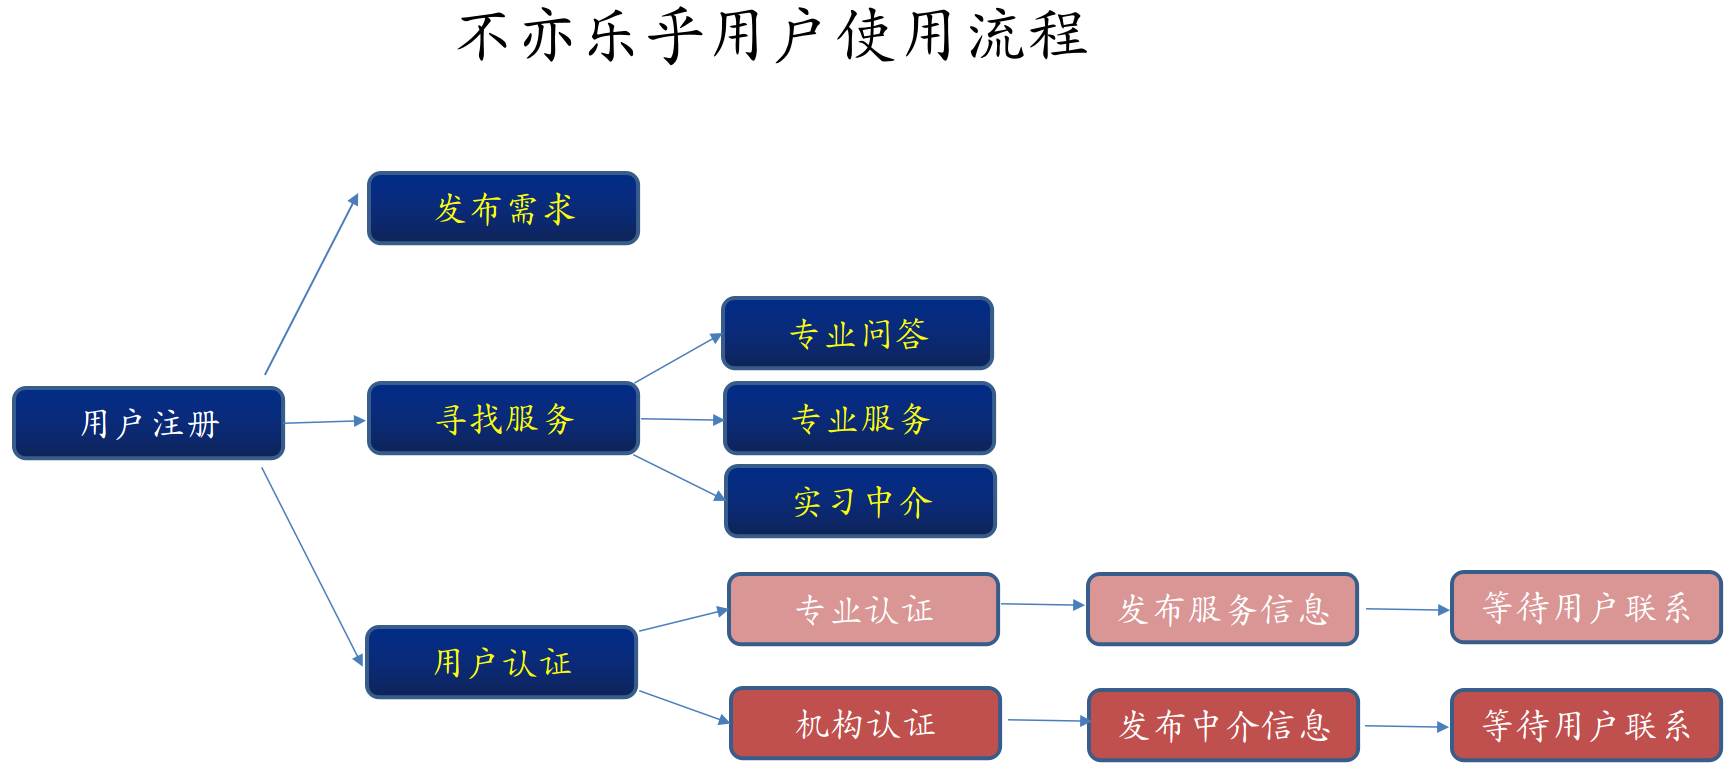
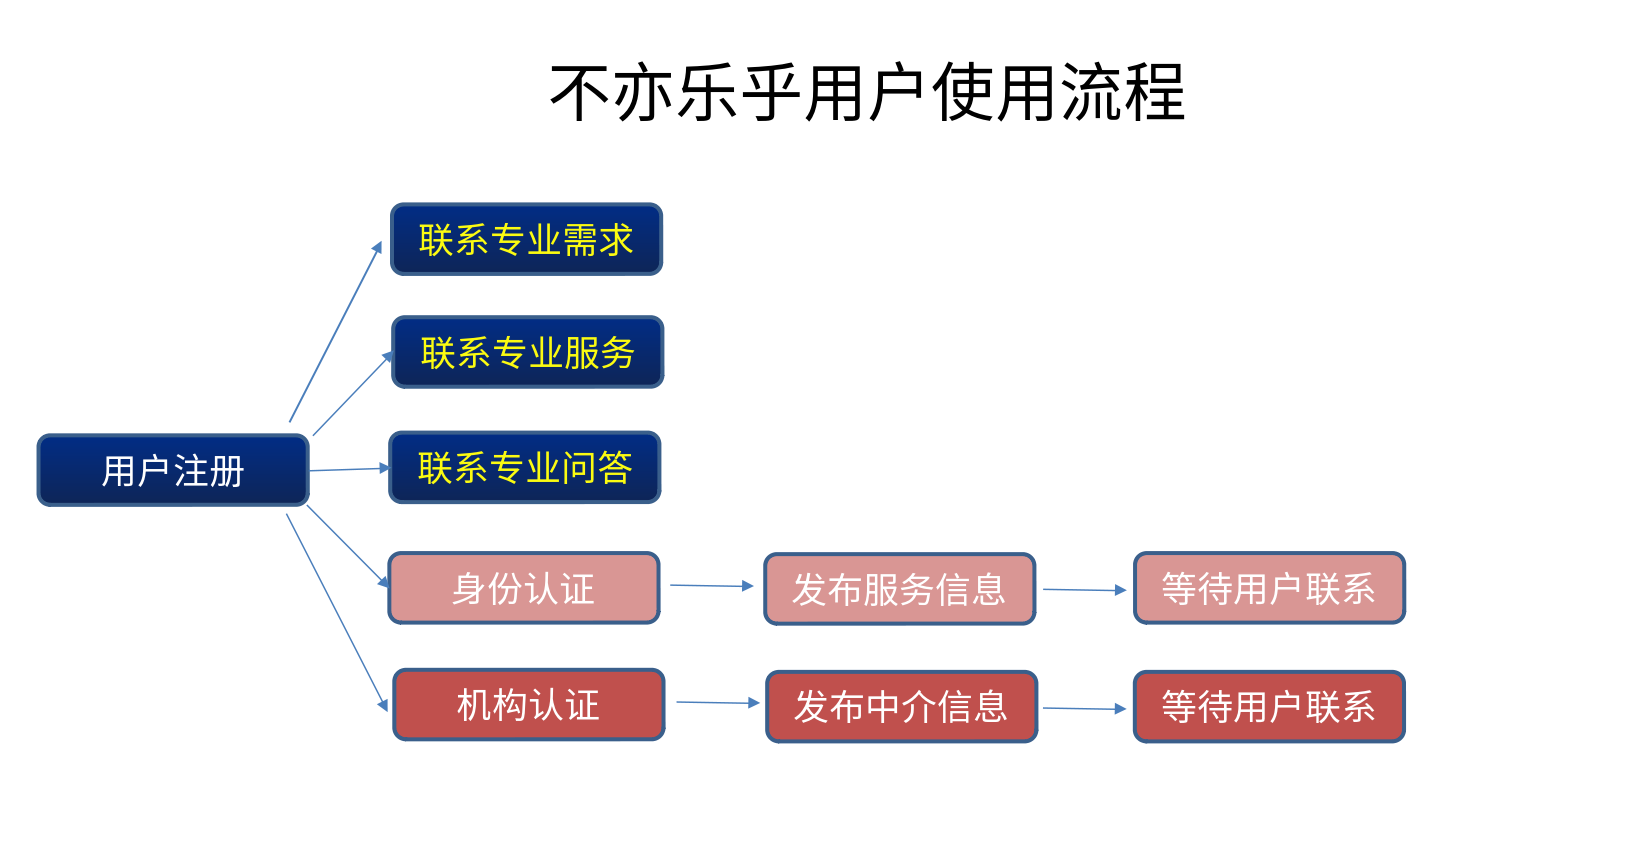
teacher cao modify css\default images

Changed region(s): [[0.0, 0.3711, 1.0, 0.9897], [0.25, 0.0, 0.7188, 0.1546], [0.1875, 0.2165, 0.4062, 0.3402]]

diff --git a/resources/views/person/finance.blade.php b/resources/views/person/finance.blade.php
@@ -1,5 +1,5 @@
 @extends('demo.admin2')
-@section("title", "实习中介认证")
+@section("title", "机构认证")
 
 @section("custom-style")
     <link rel="stylesheet" type="text/css" href="{{asset("plugins/sweetalert/sweetalert.css")}}"/>
@@ -35,18 +35,18 @@
 
     <div class="main-wrap">
         <div class="am-cf am-padding">
-            <div class="am-fl am-cf"><strong class="am-text-danger am-text-lg">实习中介认证</strong> /
-                <small>Finance&nbsp;authentication</small>
+            <div class="am-fl am-cf"><strong class="am-text-danger am-text-lg">机构认证</strong> /
+                <small>Organization&nbsp;authentication</small>
             </div>
         </div>
         <hr/>
         <div class="authentication">
             @if($data["is_vertify"] == -1)
-            <p class="tip">请填写你的中介机构的认证凭据，以用于平台审核</p>
+            <p class="tip">请填写您的机构的认证凭据，以用于平台审核</p>
                 <div class="authenticationInfo">
                     <p class="title">填写机构信息</p>
                     <div class="am-form-group">
-                        <label for="user-name" class="am-form-label">实习中介机构名称：</label>
+                        <label for="user-name" class="am-form-label">机构名称：</label>
                         <div class="am-form-content">
                             <input type="text" id="real-name" name="real_name" placeholder="请输入您的机构名称">
                         </div>
@@ -64,9 +64,9 @@
                         </div>
                     </div>
                     <div class="am-form-group">
-                        <label for="user-field" class="am-form-label">中介领域：</label>
+                        <label for="user-field" class="am-form-label">服务领域：</label>
                         <div class="am-form-content">
-                            <input type="text" id="field" name="field" placeholder="请输入中介领域（工美设计、医院护士、公司职位等）">
+                            <input type="text" id="field" name="field" placeholder="请输入服务领域（体育、艺术、技术、医疗等）">
                         </div>
                     </div>
                     <div class="am-form-group">
@@ -102,7 +102,7 @@
                             <div class="cardPic" id="id-card-back_holder">
                                 <img src="{{asset("images/cardbg.jpg")}}">
                                 <div class="cardText" id="upload-back-btn"><i class="am-icon-plus"></i>
-                                    <p>其他相关证件</p>
+                                    <p>其他许可/资质</p>
                                 </div>
                                 <p class="titleText">其他证件</p>
                             </div>
@@ -118,7 +118,7 @@
                     <div id="submit-form" class="am-btn am-btn-danger">提交</div>
                 </div>
             @else
-                <span class="am-badge am-badge-warning am-round"><a href="/account/safety">您已提交实习中介认证，请等待审核,点击查看审核结果</a></span>
+                <span class="am-badge am-badge-warning am-round"><a href="/account/safety">您已提交机构认证材料，请等待审核,点击查看审核结果</a></span>
             @endif
         </div>
     </div>
@@ -150,7 +150,7 @@
             swal({
                 title: "要求",
                 type: "info",
-                text: "其他相关证件照片，可证明实习中介身份的照片",
+                text: "其他相关证件照片，可证明机构身份的照片",
                 confirmButtonText: "知道了",
                 closeOnConfirm: true
             }, function () {
@@ -175,7 +175,7 @@
             if (realName === "") {
                 swal({
                     title: "",
-                    text: "请输入您的实习中介机构名称",
+                    text: "请输入您的机构名称",
                     type: "error",
                     confirmButtonText: "确定",
                     showCancelButton: false,
@@ -198,10 +198,10 @@
                 return;
             }
             if(field === ''){
-                swal("","中介领域不能为空", "error");
+                swal("","服务领域不能为空", "error");
                 return;
             }else if(field.length > 100){
-                swal("","中介领域长度不能超过100字", "error");
+                swal("","服务领域长度不能超过100字", "error");
                 return;
             }
 

diff --git a/resources/views/person/safety.blade.php b/resources/views/person/safety.blade.php
@@ -68,13 +68,13 @@
                         {{--<li>--}}
                             {{--<i class="i-safety-idcard"></i>--}}
                             {{--<div class="m-left">--}}
-                                {{--<div class="fore1">实名认证</div>--}}
+                                {{--<div class="fore1">身份认证</div>--}}
                                 {{--@if($data['userinfo']->realname_statue == -1)--}}
-                                    {{--<div class="fore2"><small>认证通过后、才能进一步认证专业身份或实习机构，同时可提高账户安全性。</small></div>--}}
+                                    {{--<div class="fore2"><small>认证通过后可发布服务。</small></div>--}}
                                 {{--@elseif($data['userinfo']->realname_statue == 0)--}}
                                     {{--<div class="fore2"><small>您已提交审核，请耐心等待审核结果。</small></div>--}}
                                 {{--@else--}}
-                                    {{--<div class="fore2"><small>恭喜您已通过实名认证</small></div>--}}
+                                    {{--<div class="fore2"><small>恭喜您已通过身份认证</small></div>--}}
                                 {{--@endif--}}
                             {{--</div>--}}
                             {{--<div class="fore3">--}}
@@ -97,16 +97,16 @@
                             {{--<i class="i-safety-security"></i>--}}
                             <i class="i-safety-idcard"></i>
                             <div class="m-left">
-                                <div class="fore1">专业技能认证</div>
+                                <div class="fore1">身份认证</div>
                                 {{--@if($data['userinfo']->realname_statue != 1)--}}
-                                    {{--<div class="fore2"><small>先通过实名认证后才能提交专业技能认证！</small></div>--}}
+                                    {{--<div class="fore2"><small></small></div>--}}
                                 {{--@else--}}
                                     @if($data['userinfo']->majors_statue == -1)
                                         <div class="fore2"><small>认证通过后可进行专业服务、专业问答发布，同时可进一步提高账户安全性。</small></div>
                                     @elseif($data['userinfo']->majors_statue == 0)
                                         <div class="fore2"><small>您已提交审核，请耐心等待审核结果。</small></div>
                                     @else
-                                        <div class="fore2"><small>恭喜您已通过专业技能认证</small></div>
+                                        <div class="fore2"><small>恭喜您已通过身份认证</small></div>
                                     @endif
                                 {{--@endif--}}
                             </div>
@@ -135,16 +135,16 @@
                         <li>
                             <i class="i-safety-final"></i>
                             <div class="m-left">
-                                <div class="fore1">实习中介认证</div>
+                                <div class="fore1">机构认证</div>
                                 {{--@if($data['userinfo']->realname_statue != 1)--}}
-                                    {{--<div class="fore2"><small>先通过实名认证后才能提交实习中介认证！</small></div>--}}
+                                    {{--<div class="fore2"><small></small></div>--}}
                                 {{--@else--}}
                                     @if($data['userinfo']->finance_statue== -1)
-                                        <div class="fore2"><small>认证通过后可进行实习中介服务发布，同时可进一步提高账户安全性。</small></div>
+                                        <div class="fore2"><small>认证通过后可发布中介信息，同时可进一步提高账户安全性。</small></div>
                                     @elseif($data['userinfo']->finance_statue== 0)
                                         <div class="fore2"><small>您已提交审核，请耐心等待审核结果。</small></div>
                                     @else
-                                        <div class="fore2"><small>恭喜您已通过实习中介认证</small></div>
+                                        <div class="fore2"><small>恭喜您已通过机构认证</small></div>
                                     @endif
                                 {{--@endif--}}
                             </div>

diff --git a/resources/views/demo/aside.blade.php b/resources/views/demo/aside.blade.php
@@ -2,20 +2,20 @@
     <ul>
         @if($type == 1)
             <li class="person active">
-                <a href="{{asset('account/index')}}"><i class="am-icon-user"></i>个人中心</a>
+                <a href="{{asset('account/index')}}"><i class="am-icon-user"></i>我的主页</a>
             </li>
             <li class="person">
                 <p><i class="am-icon-newspaper-o"></i>个人资料</p>
                 <ul>
                     <li><a href="{{asset('account/baseedit')}}">个人信息</a></li>
                     <li><a href="{{asset('account/safety')}}">安全设置</a></li>
-                    <li><a href="{{asset('account/authentication/2')}}">专业认证</a></li>
-                    <li><a href="{{asset('account/authentication/1')}}">中介认证</a></li>
+                    <li><a href="{{asset('account/authentication/2')}}">身份认证</a></li>
+                    <li><a href="{{asset('account/authentication/1')}}">机构认证</a></li>
                 </ul>
             </li>
         @else
             <li class="person active">
-                <a href="{{asset('account/index')}}"><i class="am-icon-user"></i>服务中心</a>
+                <a href="{{asset('account/index')}}"><i class="am-icon-user"></i>我的主页</a>
             </li>
             <li class="person">
                 <p><i class="am-icon-newspaper-o"></i>服务资料</p>
@@ -23,8 +23,8 @@
                     <li><a href="{{asset('account/baseedit')}}">个人信息</a></li>
                     <li><a href="{{asset('account/serviceedit')}}">服务信息</a></li>
                     <li><a href="{{asset('account/safety')}}">安全设置</a></li>
-                    <li><a href="{{asset('account/authentication/2')}}">专业认证</a></li>
-                    <li><a href="{{asset('account/authentication/1')}}">中介认证</a></li>
+                    <li><a href="{{asset('account/authentication/2')}}">身份认证</a></li>
+                    <li><a href="{{asset('account/authentication/1')}}">机构认证</a></li>
                 </ul>
             </li>
         @endif

diff --git a/resources/views/person/qaservice.blade.php b/resources/views/person/qaservice.blade.php
@@ -1,5 +1,5 @@
 @extends('demo.admin2')
-@section("title", "专业问答认证")
+@section("title", "身份认证")
 
 @section("custom-style")
     <link rel="stylesheet" type="text/css" href="{{asset("plugins/sweetalert/sweetalert.css")}}"/>
@@ -58,7 +58,7 @@
 @section('content')
     <div class="main-wrap">
         <div class="am-cf am-padding">
-            <div class="am-fl am-cf"><strong class="am-text-danger am-text-lg">专业认证</strong> /
+            <div class="am-fl am-cf"><strong class="am-text-danger am-text-lg">身份认证</strong> /
                 <small>Real&nbsp;authentication</small>
             </div>
         </div>
@@ -109,7 +109,7 @@
                                 <div class="cardText" id="upload-idcard-front-btn"><i class="am-icon-plus"></i>
                                     <p>正面照片</p>
                                 </div>
-                                <p class="titleText">手持身份证正面</p>
+                                <p class="titleText">身份证正面</p>
                             </div>
                             <div class="cardExample">
                                 <img id="first-preview" src="{{asset("images/cardexample1.jpg")}}">
@@ -136,7 +136,7 @@
                     </div>
                     
                     <div class="authenticationPic">
-                    <p class="title">请上传 学生证、毕业证、资格证或者其它技能证书</p>
+                    <p class="title">请上传 学生证、毕业证、职称证、资格证或者其它技能证书</p>
                     <p class="tip">请按要求上传相关证书</p>
 
                     <input type="file" name="id-card-front" class="hide" onchange='showMajorPreview(this, "front")'>

diff --git a/resources/views/service/myrequest.blade.php b/resources/views/service/myrequest.blade.php
@@ -8,9 +8,9 @@
                     <div class="am-fl am-cf"><strong class="am-text-danger am-text-lg">我发布的服务</strong> / <small>My&nbsp;services</small></div>
                 </div>
                 <ul class="am-nav am-nav-pills">
-                    <li class="@if($data['type_tab'] ==1) am-active @endif" name="type_tab" data-content="tab1"><a href="#">大学生服务</a></li>
-                    <li class="@if($data['type_tab'] ==2) am-active @endif" name="type_tab" data-content="tab2"><a href="#">实习中介服务</a></li>
-                    <li class="@if($data['type_tab'] ==3) am-active @endif" name="type_tab" data-content="tab3"><a href="#">专业问答服务</a></li>
+                    <li class="@if($data['type_tab'] ==1) am-active @endif" name="type_tab" data-content="tab1"><a href="#">专业服务</a></li>
+                    <li class="@if($data['type_tab'] ==2) am-active @endif" name="type_tab" data-content="tab2"><a href="#">中介服务</a></li>
+                    <li class="@if($data['type_tab'] ==3) am-active @endif" name="type_tab" data-content="tab3"><a href="#">专业问答</a></li>
                 </ul>
                 <hr/>
             </div>

diff --git a/resources/views/service/detail.blade.php b/resources/views/service/detail.blade.php
@@ -228,7 +228,7 @@
                         <li @if($data['tab_detail']== 0) class="am-active" @endif ><a href="#tab1" style="font-weight: bold;font-size: 18px;margin-right: 50px;">服务详情</a></li>
                         <li @if($data['tab_detail']== 1) class="am-active" @endif><a href="#tab2" style="font-weight: bold; font-size: 18px;margin-right: 50px;">雇主评论</a></li>
                         <li @if($data['tab_detail']== 2) class="am-active" @endif><a href="#tab3" style="font-weight: bold;font-size: 18px;margin-right: 50px;">成交记录</a></li>
-                        <li @if($data['tab_detail']== 3) class="am-active" @endif><a href="#tab4" style="font-weight: bold;font-size: 18px;margin-right: 50px;">投诉建议</a></li>
+                        <li @if($data['tab_detail']== 3) class="am-active" @endif><a href="#tab4" style="font-weight: bold;font-size: 18px;margin-right: 50px;">举报</a></li>
                     </ul>
 
                         <div class="am-tabs-bd">

diff --git a/resources/views/service/genlpublish.blade.php b/resources/views/service/genlpublish.blade.php
@@ -208,7 +208,7 @@
                     </div>
                 </div>
                 <div class="fabu1" style="background:#eee;margin-bottom:10px;">
-                    <div class="fabu_showtitle title_tip">请选择你的需求类型</div>
+                    <div class="fabu_showtitle title_tip"></div>
                     <div class="fb_container" style="padding: 16px 3px;margin-left: 10px;padding-bottom: 30px;margin-bottom: 20px;">
                         <div class="am-form-group am-form-danger am-form-icon am-form-feedback" style="padding-bottom:20px;">
                             <label for="doc-ipt-3-a" class="am-u-sm-2 am-form-label" style="font-size: 16px;">服务类型</label>

diff --git a/resources/views/demo/admin3.blade.php b/resources/views/demo/admin3.blade.php
@@ -5,6 +5,7 @@
     <meta http-equiv="Content-Type" content="text/html; charset=utf-8" />
     {{--<meta name="viewport" content="width=device-width, initial-scale=1.0, minimum-scale=1.0, maximum-scale=1.0, user-scalable=no">--}}
     <title>@yield('title')</title>
+    <link rel="icon" href="{{asset('images/bylehu2.ico')}}" type="image/x-icon" />
     <link href="{{asset('AmazeUI-2.4.2/assets/css/amazeui.css')}}" rel="stylesheet" type="text/css" />
     <link href="{{asset('AmazeUI-2.4.2/assets/css/admin.css')}}" rel="stylesheet" type="text/css" />
     <link href="{{asset('css/personal.css')}}" rel="stylesheet" type="text/css">

diff --git a/resources/views/demo/admin.blade.php b/resources/views/demo/admin.blade.php
@@ -6,6 +6,7 @@
     <meta http-equiv="Content-Type" content="text/html; charset=utf-8"/>
     {{--<meta name="viewport" content="width=device-width, initial-scale=1.0, minimum-scale=1.0, maximum-scale=1.0, user-scalable=no">--}}
     <title>@yield('title')</title>
+    <link rel="icon" href="{{asset('images/bylehu2.ico')}}" type="image/x-icon" />
     <link href="{{asset('AmazeUI-2.4.2/assets/css/amazeui.css')}}" rel="stylesheet" type="text/css"/>
     <link href="{{asset('AmazeUI-2.4.2/assets/css/admin.css')}}" rel="stylesheet" type="text/css"/>
     <link href="{{asset('css/personal.css')}}" rel="stylesheet" type="text/css">

diff --git a/resources/views/demo/admin2.blade.php b/resources/views/demo/admin2.blade.php
@@ -4,6 +4,7 @@
     <meta charset="utf-8">
     {{--<meta name="viewport" content="width=device-width, initial-scale=1.0,maximum-scale=1.0, user-scalable=0">--}}
     <title>@yield('title')</title>
+    <link rel="icon" href="{{asset('images/bylehu2.ico')}}" type="image/x-icon" />
     <link href="{{asset('AmazeUI-2.4.2/assets/css/admin.css')}}" rel="stylesheet" type="text/css">
     <link href="{{asset('AmazeUI-2.4.2/assets/css/amazeui.css')}}" rel="stylesheet" type="text/css">
     <link href="{{asset('css/personal.css')}}" rel="stylesheet" type="text/css">

diff --git a/resources/views/news/index.blade.php b/resources/views/news/index.blade.php
@@ -510,7 +510,7 @@
     <div class="am-u-lg-4 am-u-md-4 am-u-sm-4">
         <div class="am-container" style="border: 2px solid #eee;padding: 20px;background: #fff;margin-left: 20px;margin-top: 20px;box-shadow:0px 3px 0px 0px rgba(4,0,0,0.1);">
             <div class="hotNews">
-                热门资讯
+                讨论热点话题
             </div>
             <hr data-am-widget="divider"  class="am-divider am-divider-danger" style="border-top: 2px solid #d2364c;" />
             <div class="am-g am-g-fixed allhotNews">

diff --git a/resources/views/demands/detail.blade.php b/resources/views/demands/detail.blade.php
@@ -203,7 +203,7 @@
                             {!!$data["detail"]->describe !!}
                             <h3 style="font-size: 15px;font-weight: bold;">需求类型：
                                 @if($data["detail"]->type == 0)
-                                    一般服务需求
+                                    专业服务需求
                                 @elseif($data["detail"]->type == 1)
                                     金融需求
                                 @elseif($data["detail"]->type == 2)
